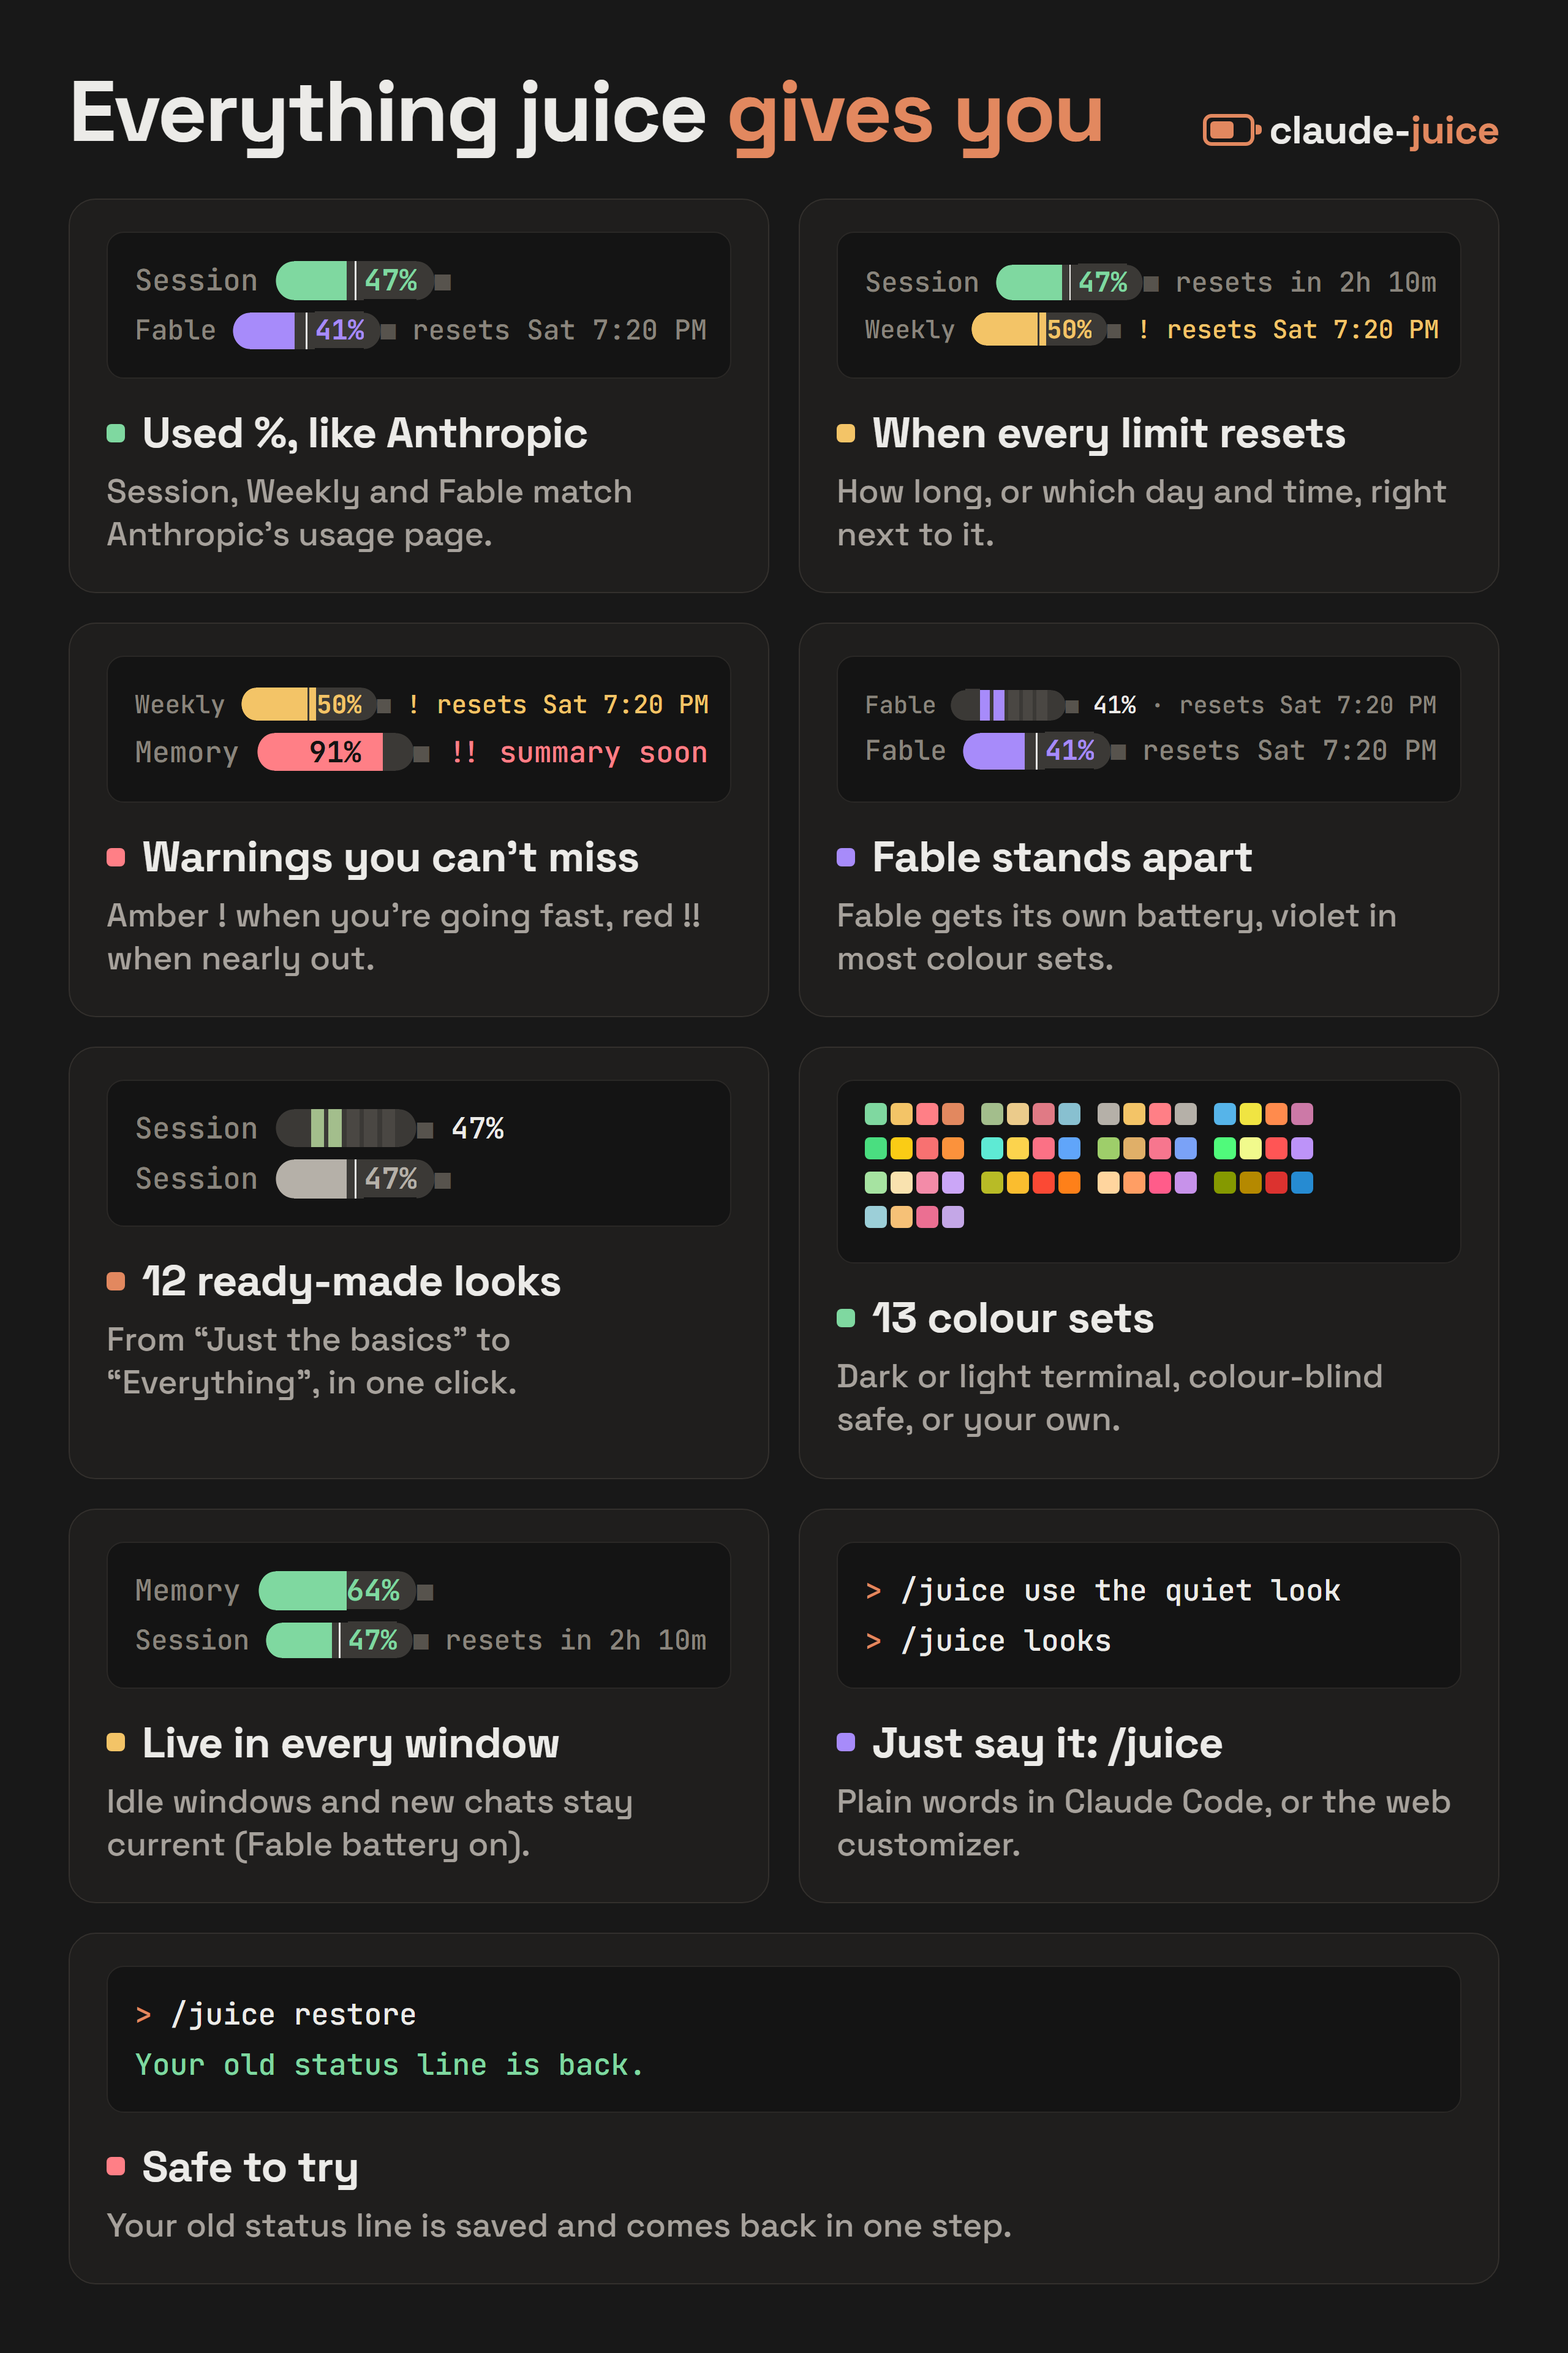
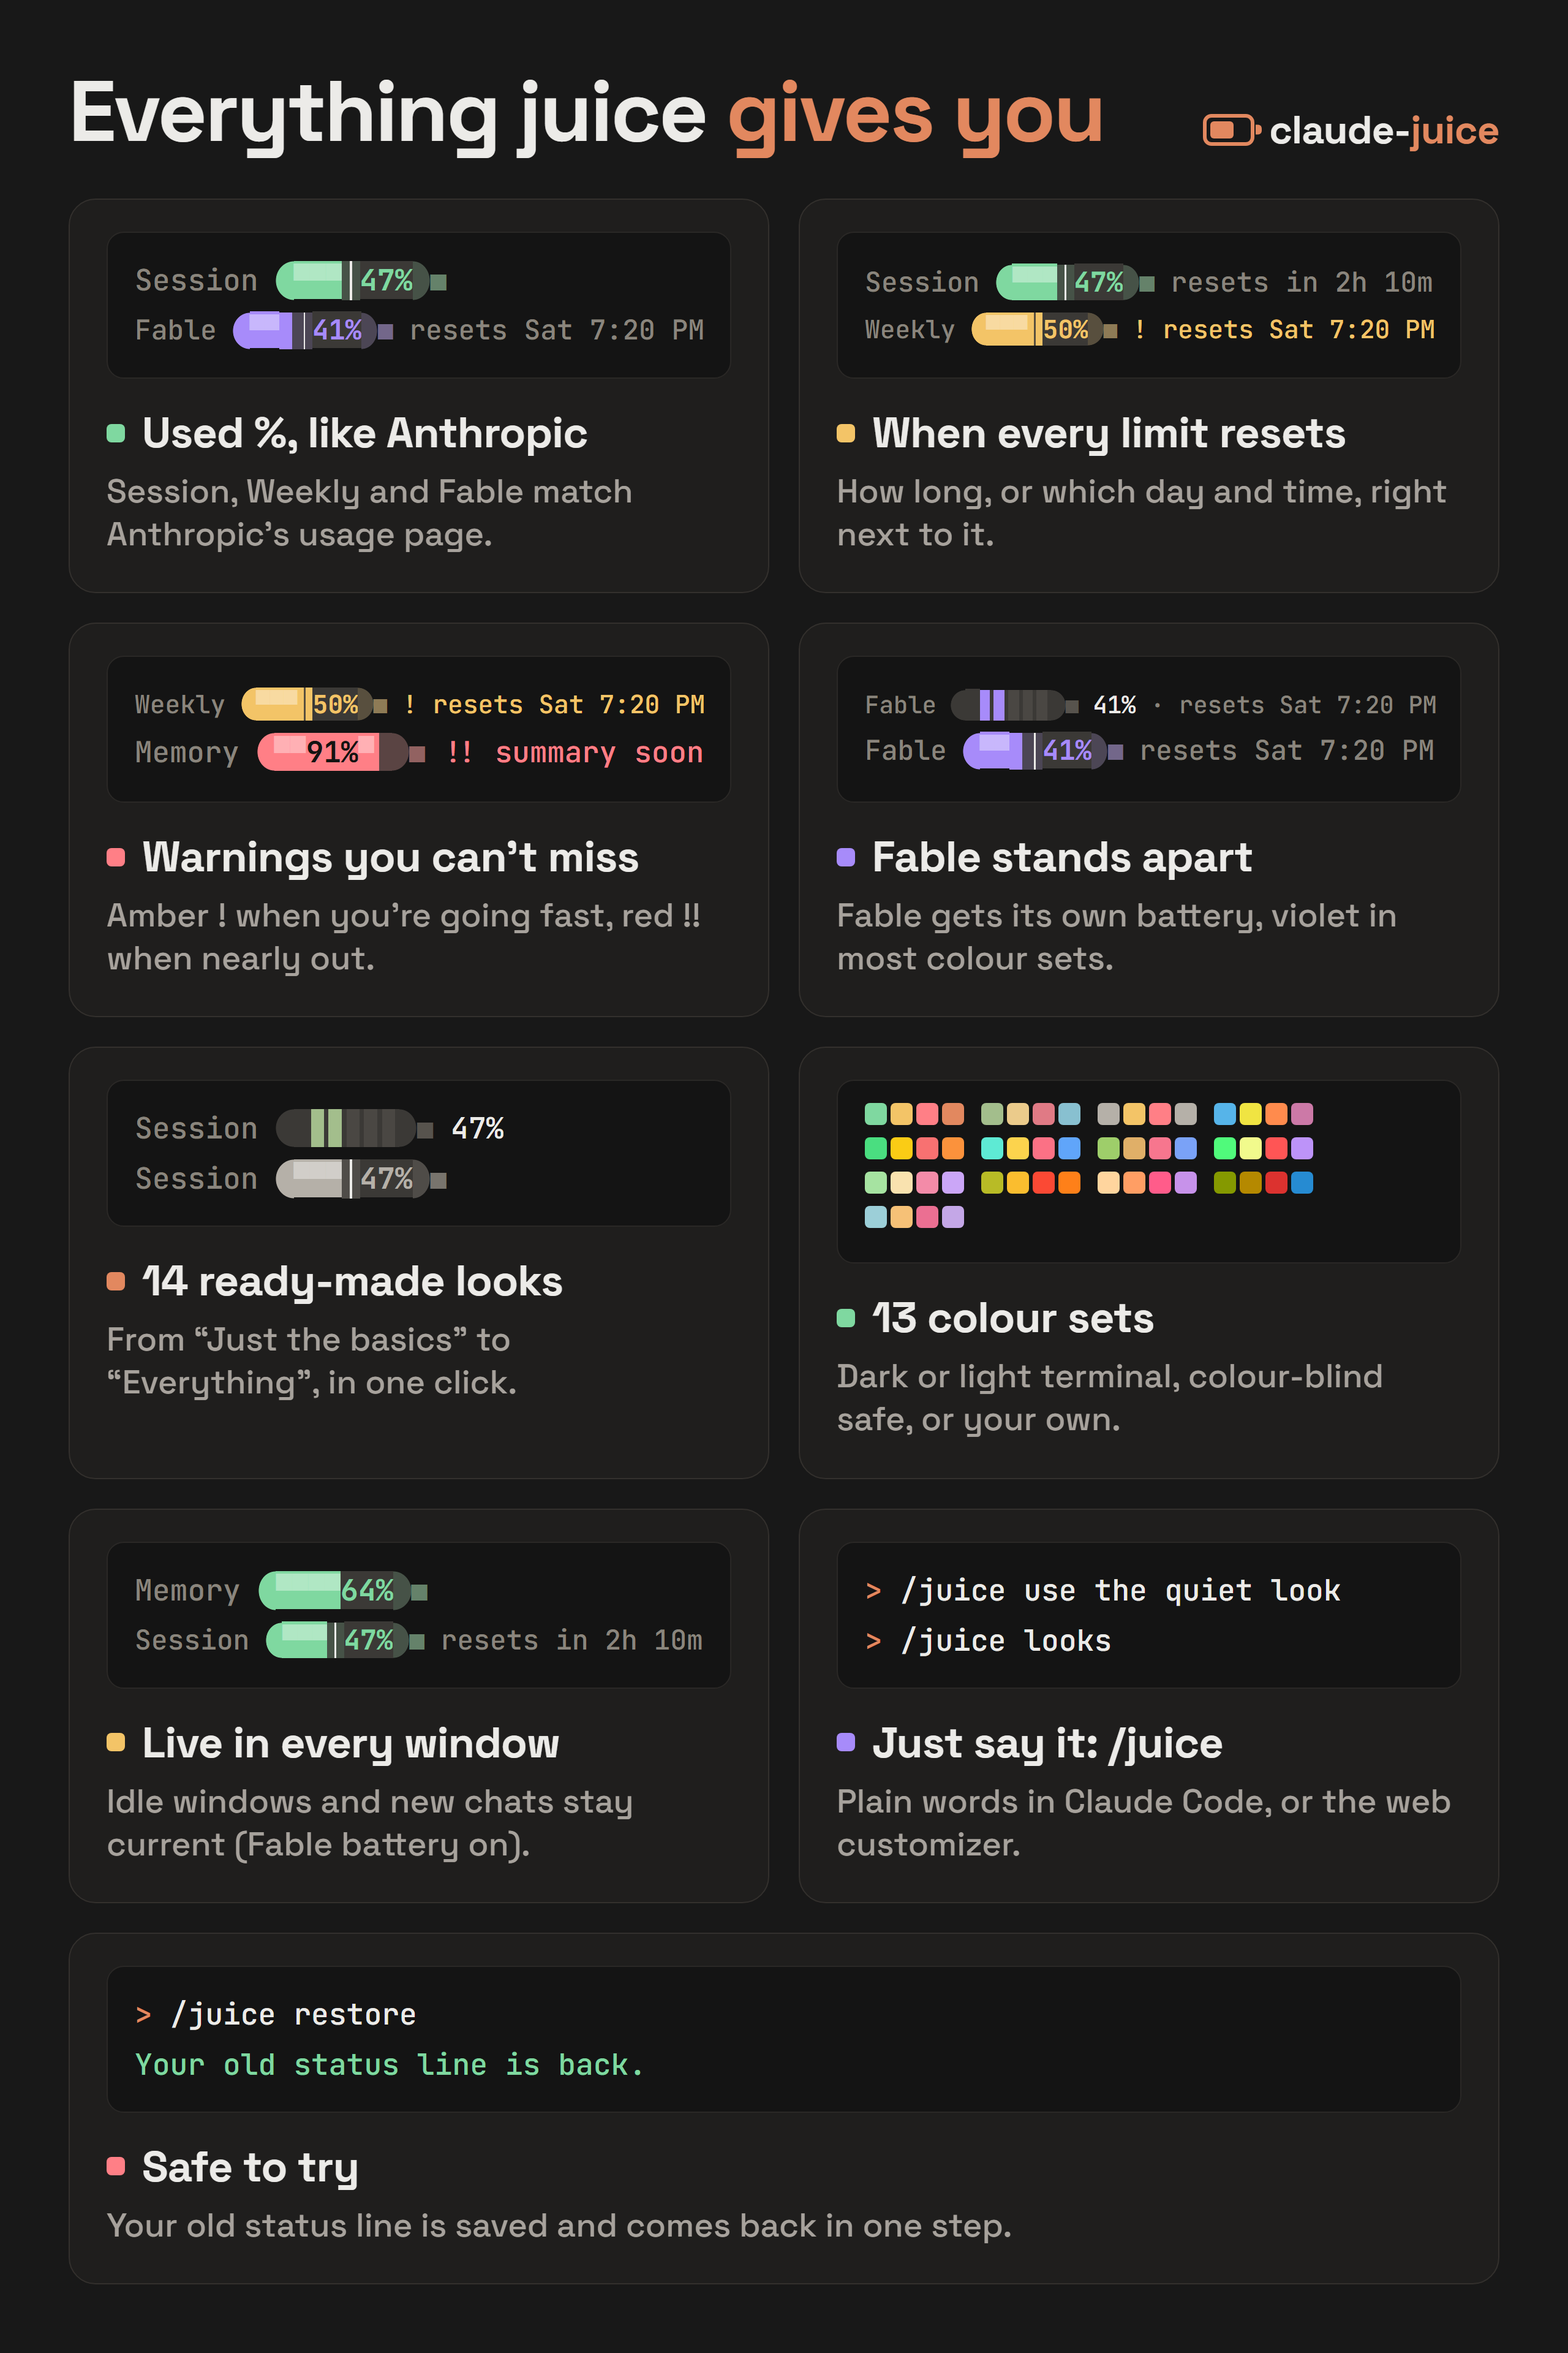
docs: redraw README pictures with the glossy batteries
Every status line in them is drawn again by the current renderer: glossy
batteries, the model tag, warming effort steps and the bar's dividers.
The looks picture and the features tile now count 14 looks; the customizer
picture and GIF are the current page.

diff --git a/README.md b/README.md
@@ -58,7 +58,7 @@ juice works on Windows, macOS and Linux (tested by hand on Windows, automaticall
 
 ## What you get
 
-![Everything juice gives you: used % like Anthropic, when every limit resets, ! and !! warnings, a violet Fable battery, 12 ready-made looks, 13 colour sets, live numbers in every window (with the Fable battery on), the /juice command, and a one-step undo.](docs/images/features.png)
+![Everything juice gives you: used % like Anthropic, when every limit resets, ! and !! warnings, a violet Fable battery, 14 ready-made looks, 13 colour sets, live numbers in every window (with the Fable battery on), the /juice command, and a one-step undo.](docs/images/features.png)
 
 ## What the batteries mean
 
@@ -100,7 +100,7 @@ Pro and Max plans show the limits that apply to them. If you pay as you go with 
 
 A look sets the layout, the colours, what shows, the cost, the reset times and the battery ends, all in one go. Your terminal colour, Fable setting and badges stay as they are. Pick one, then change anything you like. (If you chose round or plain ends yourself, type `/juice use round ends` or `/juice use plain ends` again after picking a look.)
 
-![The 12 ready-made looks, each drawn as it really looks: Juice, Just the basics, Spotlight, Everything, Retro phone, Quiet, Night owl, Easy to see, Colour-blind friendly, Works everywhere, Cost watcher and Fable first.](docs/images/looks.png)
+![The 14 ready-made looks, each drawn as it really looks: Juice, Just the basics, Spotlight, Everything, Retro phone, Quiet, Night owl, Easy to see, Colour-blind friendly, Works everywhere, Cost watcher, Fable first, Capsule and Road trip.](docs/images/looks.png)
 
 <details>
 <summary>The 14 looks in words</summary>
